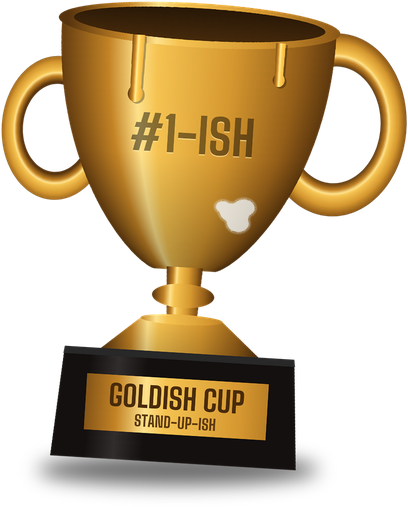
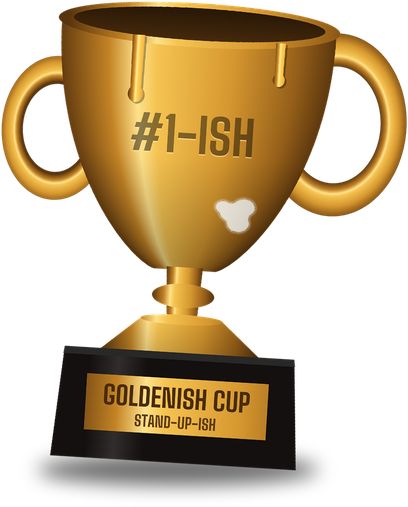
Hall update 2026-10-26

Changed region(s): [[0.2353, 0.7396, 0.6176, 0.8284]]

diff --git a/index.html b/index.html
@@ -3,10 +3,10 @@
 <head>
 <meta charset="utf-8">
 <meta name="viewport" content="width=device-width, initial-scale=1">
-<title>Goldish Cup Hall of Fame</title>
-<meta name="description" content="Every viewer who called the winning letter on The Sign Spin, live on Stand-Up-ish. It's gold... ish.">
-<meta property="og:title" content="The Goldish Cup Hall of Fame">
-<meta property="og:description" content="Call the winning letter on The Sign Spin, live on Stand-Up-ish. Win a cup. It's gold... ish.">
+<title>Goldenish Cup Hall of Fame</title>
+<meta name="description" content="Every viewer who called the winning letter on The Sign Spin, live on Stand-Up-ish. It's golden... ish.">
+<meta property="og:title" content="The Goldenish Cup Hall of Fame">
+<meta property="og:description" content="Call the winning letter on The Sign Spin, live on Stand-Up-ish. Win a cup. It's golden... ish.">
 <meta property="og:image" content="https://standupish.github.io/goldish-cup/social.jpg">
 <meta property="og:url" content="https://standupish.github.io/goldish-cup/">
 <link rel="icon" href="cup.png">
@@ -47,17 +47,17 @@
 </head>
 <body>
 <header>
-  <img src="cup.png" alt="The Goldish Cup" width="406" height="507">
-  <h1>THE GOLDISH CUP</h1>
-  <p class="tag">Hall of Fame &middot; It's gold&hellip; ish.</p>
+  <img src="cup.png" alt="The Goldenish Cup" width="406" height="507">
+  <h1>THE GOLDENISH CUP</h1>
+  <p class="tag">Hall of Fame &middot; It's golden&hellip; ish.</p>
   <p class="how">Live on <a href="https://www.youtube.com/@Standupish">Stand-Up-ish</a> every Monday, we play <b>The Sign Spin</b>: call a letter of
-  S-T-A-N-D-U-P-I-S-H in the chat, and if the light lands on it, you win a Goldish Cup. Find your name, download your cup,
+  S-T-A-N-D-U-P-I-S-H in the chat, and if the light lands on it, you win a Goldenish Cup. Find your name, download your cup,
   and show it off. The season's biggest winner gets a real one in the mail.</p>
 </header>
 <main>
-  
-  
-  <section class="empty"><h2>The first Goldish Cups are awarded Monday, October 26, 2026.</h2><p>Watch live, call a letter in the chat, and your name could be here. <a href="https://www.youtube.com/@Standupish">Stand-Up-ish on YouTube</a></p></section>
+  <div class="top"><h2>Season leaders</h2><ol><li><span class="rank">1</span><a href="#frankee">@Frankee</a><span class="n">1 cup</span></li><li><span class="rank">2</span><a href="#krista">@Krista</a><span class="n">1 cup</span></li></ol></div>
+  <input type="search" id="q" placeholder="Find your name...">
+  <section><h2>Monday, October 26, 2026</h2><div class="grid"><figure class="cup" id="frankee" data-name="@frankee"><a href="cups/2026-10-26_frankee_1.png" download><img src="thumbs/2026-10-26_frankee_1.jpg" alt="Goldenish Cup for @Frankee" loading="lazy" width="360" height="360"></a><figcaption><b>@Frankee</b><span>called P &middot; first cup!</span><a class="get" href="cups/2026-10-26_frankee_1.png" download>Download your cup</a></figcaption></figure><figure class="cup" id="krista" data-name="@krista"><a href="cups/2026-10-26_krista_1.png" download><img src="thumbs/2026-10-26_krista_1.jpg" alt="Goldenish Cup for @Krista" loading="lazy" width="360" height="360"></a><figcaption><b>@Krista</b><span>called N &middot; first cup!</span><a class="get" href="cups/2026-10-26_krista_1.png" download>Download your cup</a></figcaption></figure></div></section>
 </main>
 <footer>Not real gold. Barely a cup. &middot; Want your name off this page? Say so in the comments on any
 <a href="https://www.youtube.com/@Standupish">Stand-Up-ish</a> video and we'll take it down.</footer>
